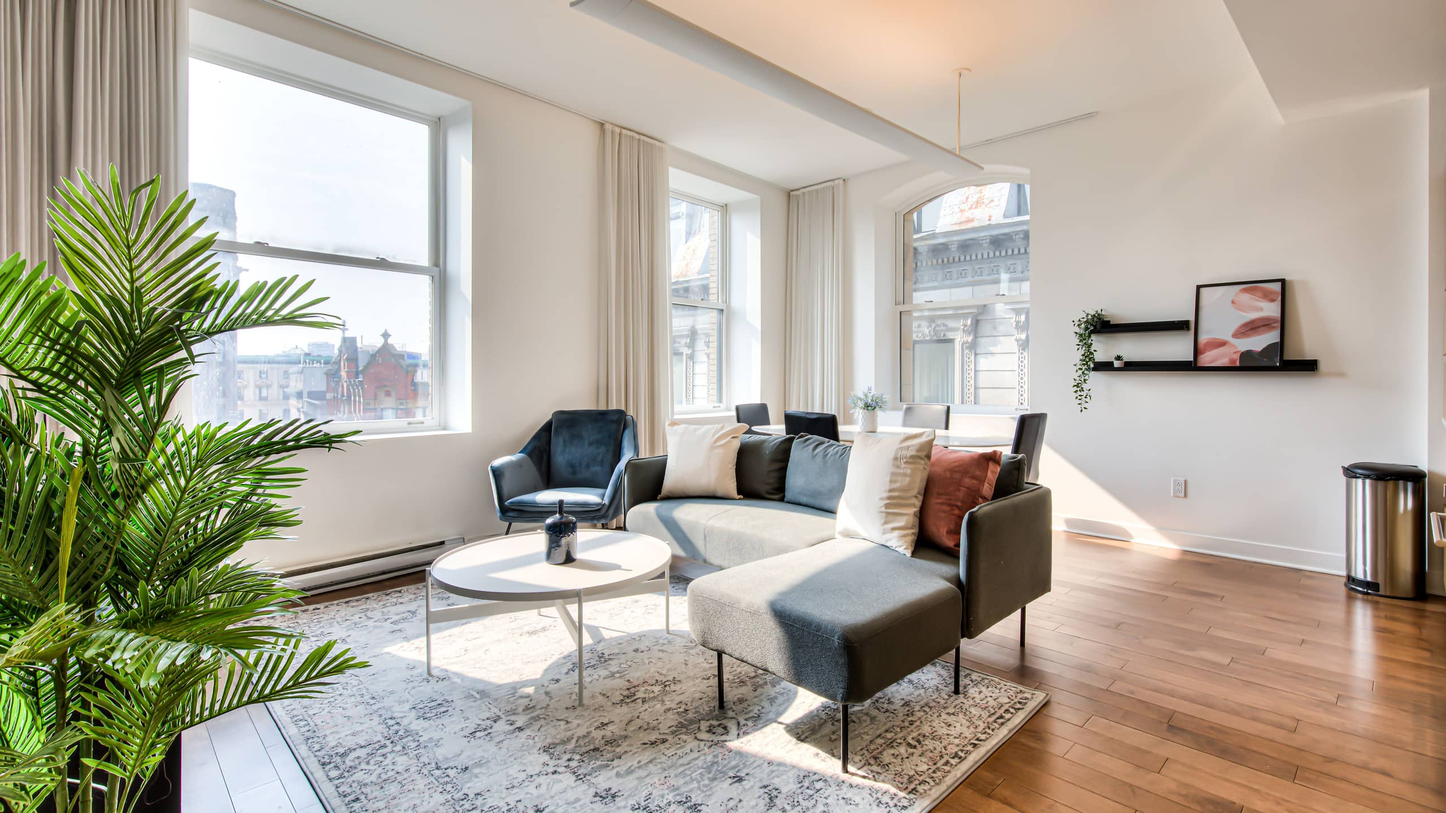
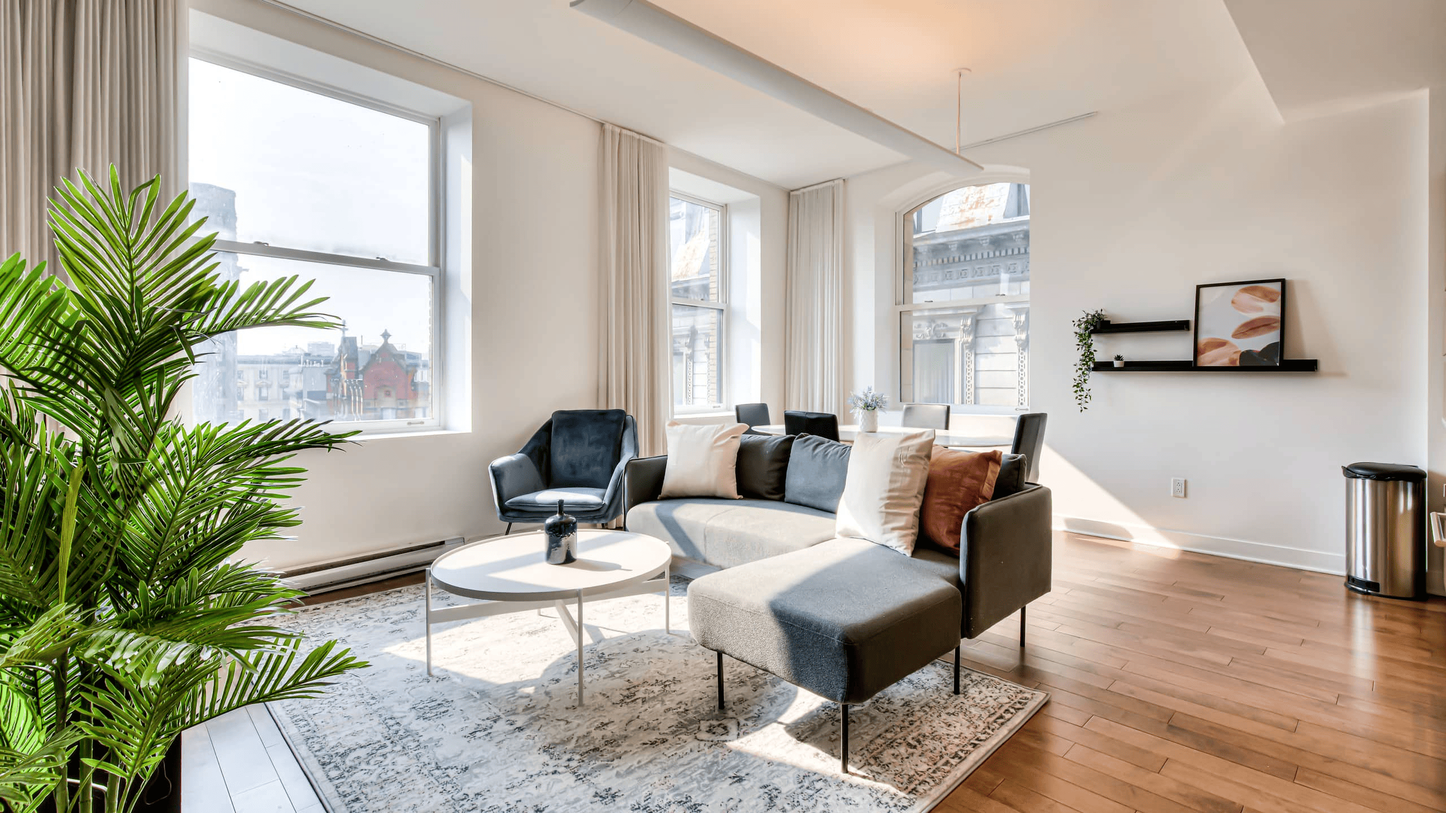
compressed the images

diff --git a/src/components/header/header.module.css b/src/components/header/header.module.css
@@ -1,6 +1,6 @@
 
 header {
-    background-color:cornflowerblue;
+    background-color:rgb(233, 233, 233);
     padding:10px 15px;
     height:80vh;
     background-repeat:no-repeat;
@@ -13,7 +13,6 @@ header {
     width:100%;
 
 }
-
 .logoContainer {
     display:flex;
     flex-direction: column;
